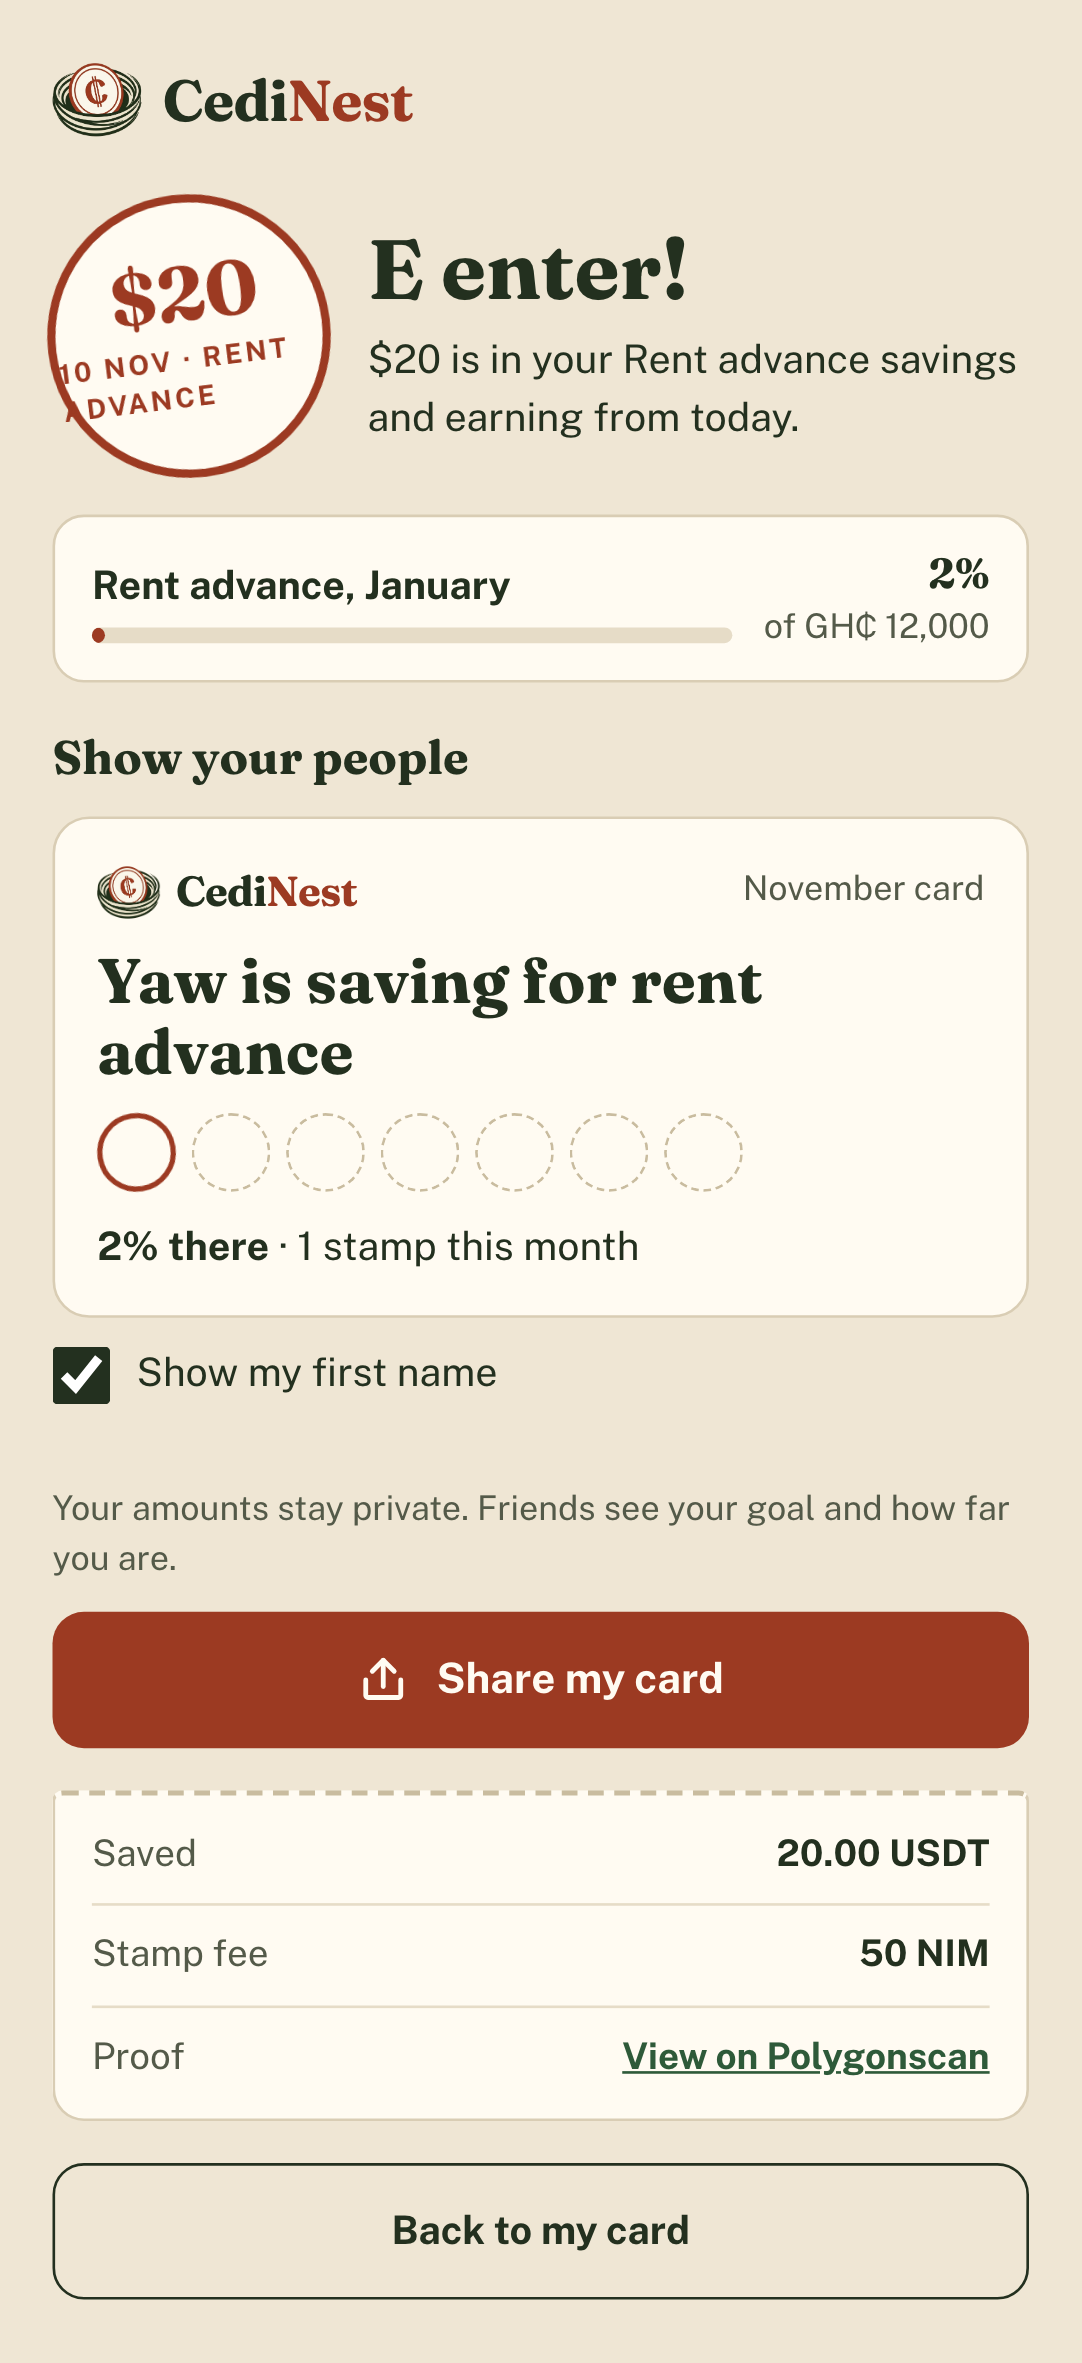
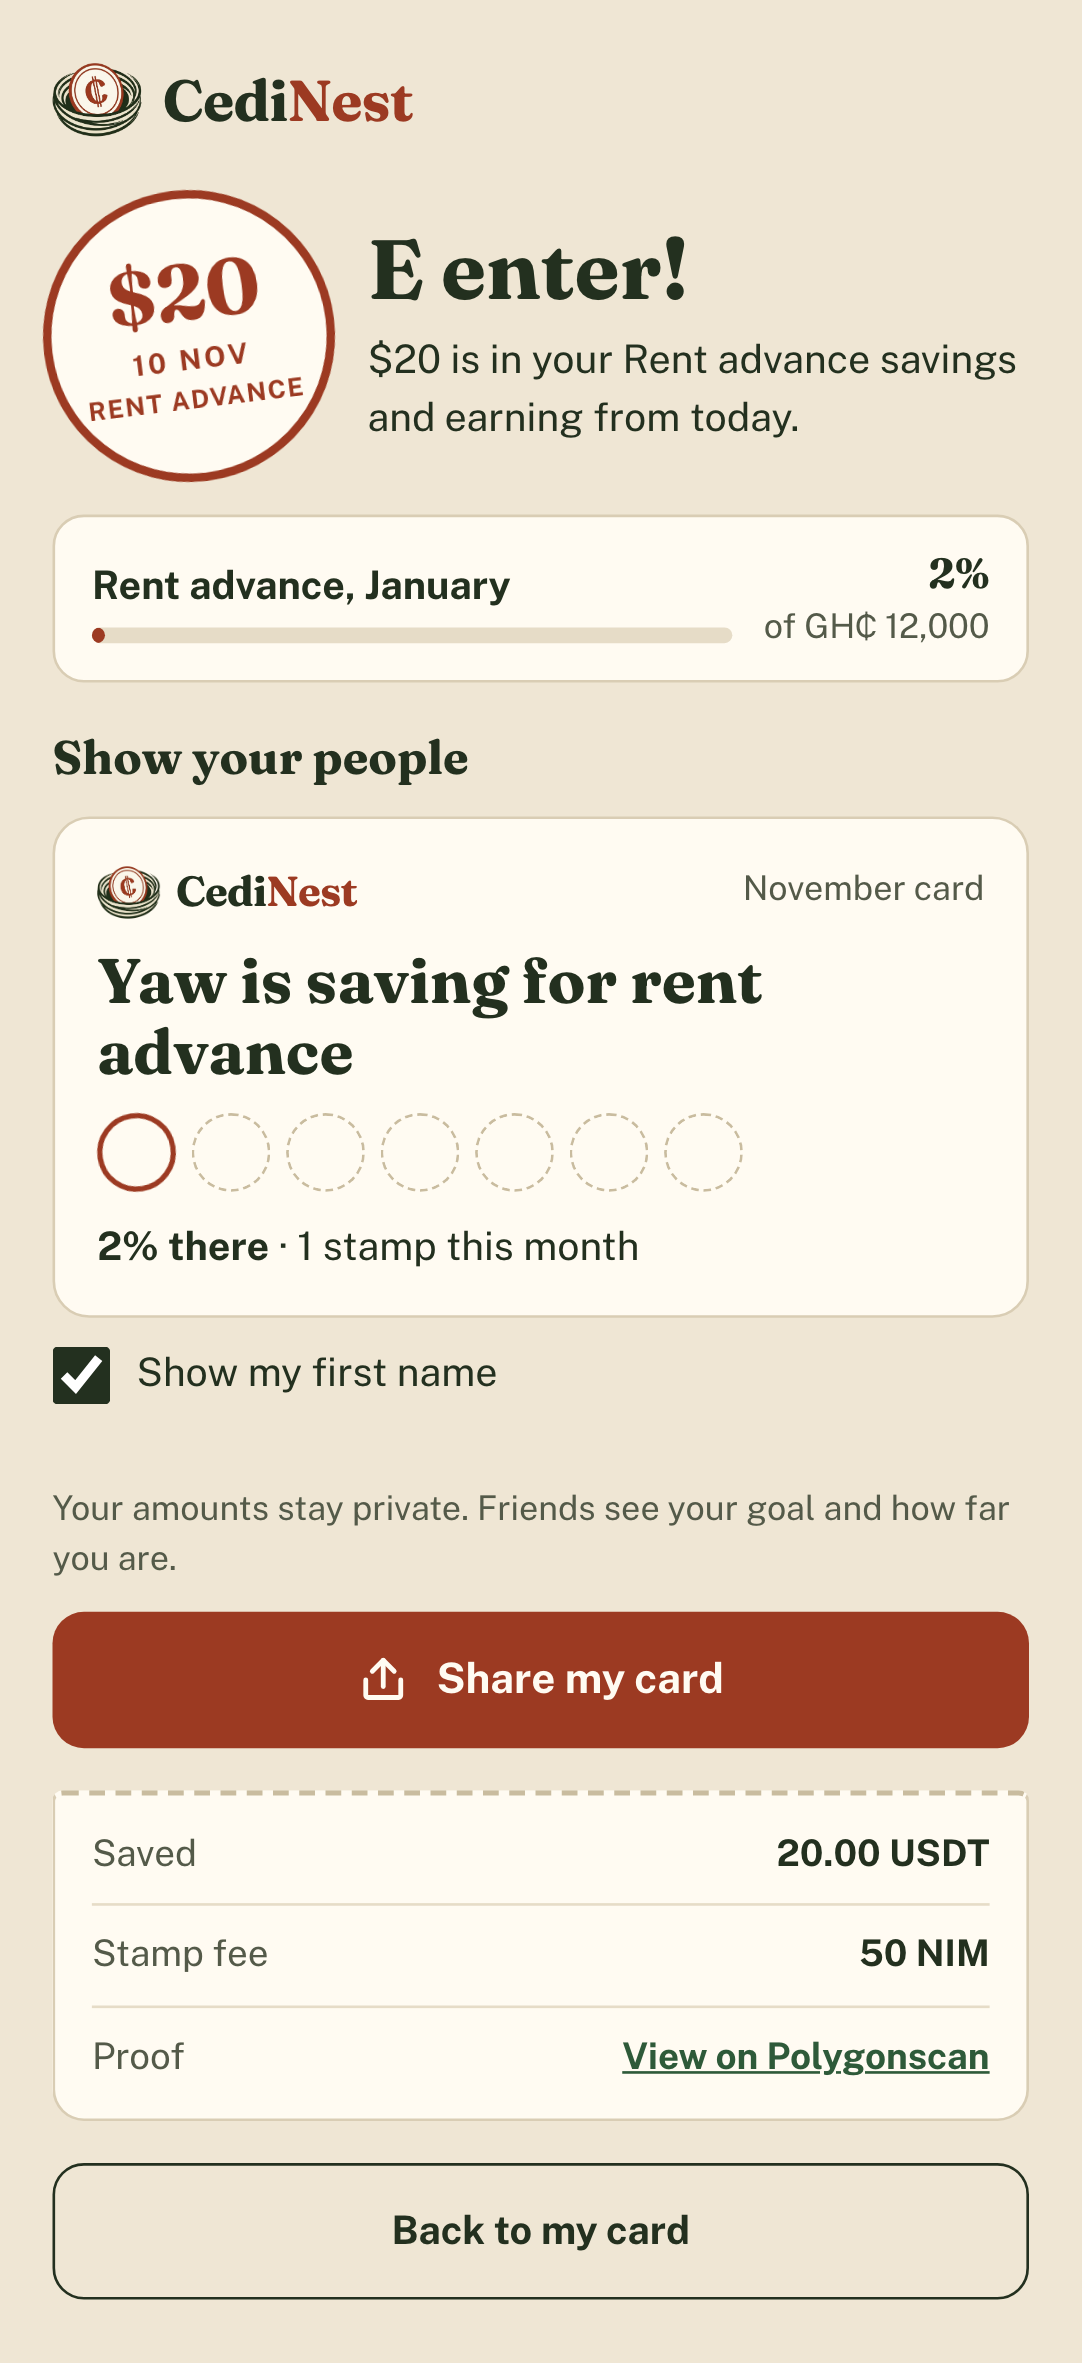
Stamp mark: date and goal on separate clipped lines so long goals stay inside the rim; compact new-goal screenshot

Changed region(s): [[0.0305, 0.0618, 0.3355, 0.2163]]

diff --git a/tests/e2e/screenshots.spec.ts b/tests/e2e/screenshots.spec.ts
@@ -10,6 +10,15 @@ test.afterAll(async () => { await page.close() })
 
 const shot = (name: string) => page.screenshot({ path: `assets/screenshots/${name}.png`, fullPage: true })
 
+// Screens that pin their button to the bottom of the viewport: shoot them in a short viewport so the shot stays compact.
+async function compactShot(name: string) {
+  const viewport = page.viewportSize()!
+  await page.setViewportSize({ width: viewport.width, height: 560 })
+  const height = await page.evaluate(() => document.documentElement.scrollHeight)
+  await page.screenshot({ path: `assets/screenshots/${name}.png`, clip: { x: 0, y: 0, width: viewport.width, height } })
+  await page.setViewportSize(viewport)
+}
+
 test('captures the main screens', async () => {
   await page.goto('/')
   await page.evaluate(() => localStorage.clear())
@@ -25,7 +34,8 @@ test('captures the main screens', async () => {
   await page.getByTestId('goal-name').fill('Rent advance, January')
   await page.getByTestId('goal-target').fill('12000')
   await page.getByTestId('goal-month').fill('2027-12')
-  await shot('3-new-goal')
+  await page.getByTestId('goal-month').blur()
+  await compactShot('3-new-goal')
   await page.getByTestId('goal-save').click()
   await expect(page.getByText('Rent advance, January')).toBeVisible()
 
@@ -40,10 +50,5 @@ test('captures the main screens', async () => {
   await shot('6-home')
 
   await page.getByTestId('take-out-cta').click()
-  // The take-out screen pins its button to the bottom of the viewport: use a short one so the shot stays compact.
-  const viewport = page.viewportSize()!
-  await page.setViewportSize({ width: viewport.width, height: 560 })
-  const height = await page.evaluate(() => document.documentElement.scrollHeight)
-  await page.screenshot({ path: 'assets/screenshots/7-take-out.png', clip: { x: 0, y: 0, width: viewport.width, height } })
-  await page.setViewportSize(viewport)
+  await compactShot('7-take-out')
 })

diff --git a/src/components/StampMark.vue b/src/components/StampMark.vue
@@ -1,12 +1,19 @@
 <script setup lang="ts">
-defineProps<{
+import { computed } from 'vue'
+
+const props = defineProps<{
   label: string        // "$20"
-  line: string         // "8 NOV · RENT"
+  line: string         // "8 NOV · RENT ADVANCE": the date, then the goal
   size?: number        // px, default 104
   pending?: boolean
   press?: boolean
   aria: string
 }>()
+
+const px = computed(() => props.size ?? 104)
+const big = computed(() => px.value > 140)
+// The date and the goal each get their own line so a long goal never spills past the rim.
+const lines = computed(() => props.line.split(' · '))
 </script>
 
 <template>
@@ -15,9 +22,12 @@ defineProps<{
     :class="{ pending, press }"
     role="img"
     :aria-label="aria"
-    :style="{ width: `${size ?? 104}px`, height: `${size ?? 104}px`, borderWidth: (size ?? 104) > 140 ? '4px' : '3px' }"
+    :style="{ width: `${px}px`, height: `${px}px`, borderWidth: big ? '4px' : '3px' }"
   >
-    <div class="amt" :style="{ fontSize: `${Math.round((size ?? 104) * 0.27)}px` }">{{ label }}</div>
-    <div class="line" :style="{ fontSize: `${(size ?? 104) > 140 ? 12 : 10}px`, letterSpacing: (size ?? 104) > 140 ? '1.4px' : '1.2px' }">{{ line }}</div>
+    <div class="amt" :style="{ fontSize: `${Math.round(px * 0.27)}px` }">{{ label }}</div>
+    <div
+      v-for="(part, i) in lines" :key="i" class="line" :class="{ goal: i > 0 }"
+      :style="{ fontSize: `${big ? 12 : i > 0 ? 9 : 10}px`, letterSpacing: big ? '1.4px' : i > 0 ? '0.6px' : '1.2px' }"
+    >{{ part }}</div>
   </div>
 </template>

diff --git a/src/styles/base.css b/src/styles/base.css
@@ -84,7 +84,8 @@ a { color: var(--grow); }
   color: var(--stamp); background: var(--card); transform: rotate(-7deg); flex: none;
 }
 .stamp-mark .amt { font-family: var(--font-display); font-weight: 700; line-height: 1; }
-.stamp-mark .line { font-size: 10px; font-weight: 700; letter-spacing: 1.2px; margin-top: 4px; }
+.stamp-mark .line { font-size: 10px; font-weight: 700; letter-spacing: 1.2px; margin-top: 4px; max-width: 82%; white-space: nowrap; overflow: hidden; text-overflow: ellipsis; text-align: center; }
+.stamp-mark .line.goal { margin-top: 1px; }
 .stamp-mark.pending { opacity: 0.55; }
 .stamp-mark.press { animation: press 180ms ease-out; }
 @keyframes press { from { transform: rotate(-7deg) scale(1.15); } to { transform: rotate(-7deg) scale(1); } }
